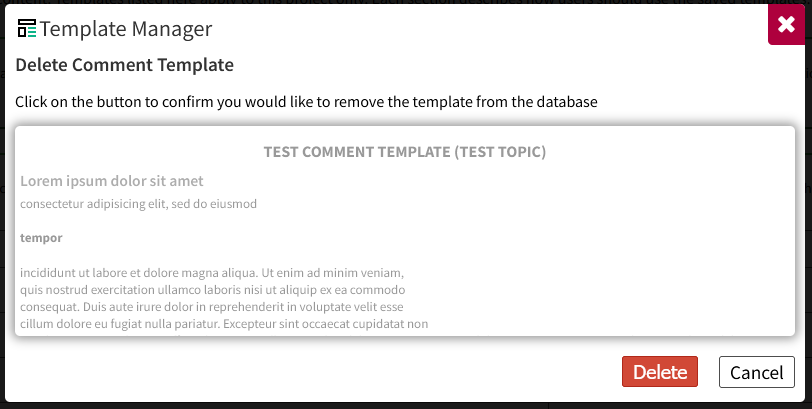
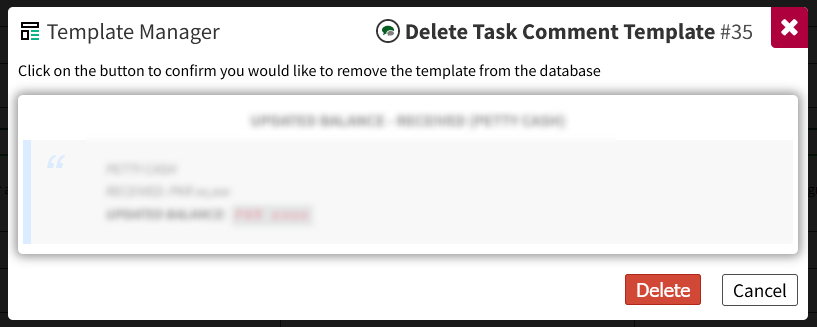
Update Screenshots & README.md

Changed region(s): [[0.0, 0.0, 1.0, 1.0], [0.3079, 0.3364, 0.7081, 0.3976]]

diff --git a/README.md b/README.md
@@ -83,17 +83,17 @@ Screenshots
 
 ![Template Manager](../master/Screenshots/screenshot-template-manager.png "All templates in one place")
 
+**Comment Templates** - View  
+
+![Template Manager](../master/Screenshots/screenshot-view-comment-template.png "View Comment Template")
+
 **Task Description Templates** - Create  
 
 ![Template Manager](../master/Screenshots/screenshot-create-task-description-template.png "Create Task Description Template")
 
-**Comment Templates** - Create  
+**Global Templates** - Edit  
 
-![Template Manager](../master/Screenshots/screenshot-create-comment-template.png "Create Comment Template")
-
-**Comment Templates** - Edit  
-
-![Template Manager](../master/Screenshots/screenshot-edit-comment-template.png "Edit Comment Template")
+![Template Manager](../master/Screenshots/screenshot-edit-global-template.png "Edit Global Template")
 
 **Comment Templates** - Delete  
 
